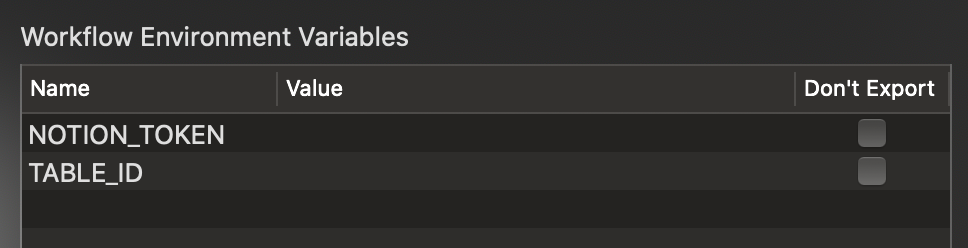
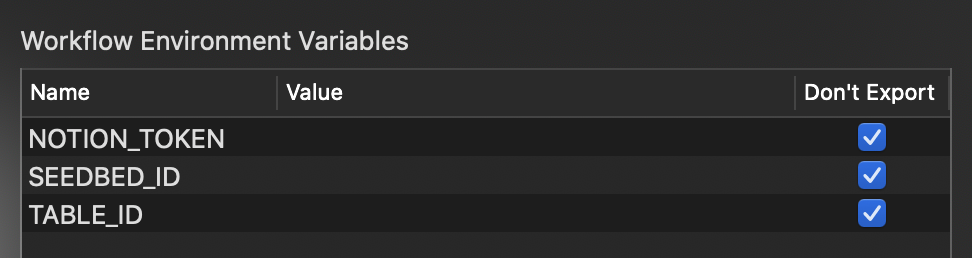
1.1.0

diff --git a/README.md b/README.md
@@ -1,6 +1,9 @@
 # alfred-notion
 
-[Alfred](https://www.alfredapp.com) workflow to search from a table of [notion.so](https://notion.so).
+[Alfred](https://www.alfredapp.com) workflow for searching or taking a note with [notion.so](https://notion.so).
+
+
+![Screenshot of alfred-notion](./media/alfred-notion.gif)
 
 ## How to use
 
@@ -29,8 +32,22 @@ added 228 packages from 83 contributors in 10.859s
 
 </details>
 
+----
 
-[Get your token](https://github.com/dragonman225/notionapi-agent/blob/master/documentation/get-token/get-token.md),
+<details>
+<summary>Get your token,</summary>
+<a href="https://github.com/dragonman225/notionapi-agent/blob/master/documentation/get-token/get-token.md">See this</a>
+</details>
+
+----
+
+<details>
+<summary>Get your quick note(seedbed) id,</summary>
+
+![Table ID](./media/seedbed.png)
+</details>
+
+----
 
 <details>
 <summary>And get your table id</summary>
@@ -38,6 +55,12 @@ added 228 packages from 83 contributors in 10.859s
 ![Table ID](./media/tableid.png)
 </details>
 
+----
+
 3. Search your notion table
 
 ![searching a page starts with pro](./media/search.png)
+
+4. Take a quick note
+
+![taking a note](./media/note.png)
